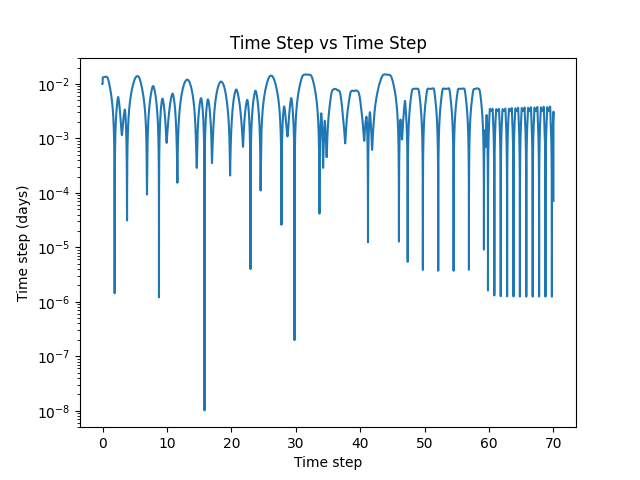
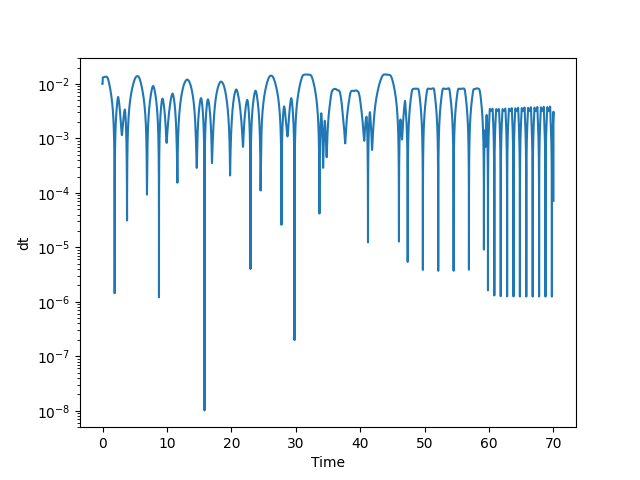
Update docs

Changed region(s): [[0.3438, 0.0625, 0.6562, 0.125], [0.0312, 0.375, 0.0625, 0.625], [0.4688, 0.9375, 0.5625, 1.0]]

diff --git a/5_steps_to_n_body_simulation/python/step5.py b/5_steps_to_n_body_simulation/python/step5.py
@@ -4,7 +4,7 @@ import timeit
 import numpy as np
 import matplotlib.pyplot as plt
 
-# Default units is AU, days, and M_sun
+# # Default units is AU, days, and M_sun
 # INITIAL_CONDITION = "solar_system"
 # TF = 200.0 * 365.24  # 200 years to days
 # TOLERANCE = 1e-8
@@ -299,7 +299,6 @@ def plot_rel_energy_error(rel_energy_error: np.ndarray, sol_t: np.ndarray) -> No
     plt.yscale("log")
     plt.xlabel("Time step")
     plt.ylabel("Relative Energy Error")
-    plt.title("Relative Energy Error vs Time Step")
     plt.show()
 
 
@@ -316,9 +315,8 @@ def plot_dt(sol_dt: np.ndarray, sol_t: np.ndarray) -> None:
     """
     plt.figure()
     plt.semilogy(sol_t, sol_dt)
-    plt.xlabel("Time step")
-    plt.ylabel("Time step (days)")
-    plt.title("Time Step vs Time Step")
+    plt.xlabel("Time")
+    plt.ylabel("dt")
     plt.show()
 
 

diff --git a/5_steps_to_n_body_simulation/conclusion.md b/5_steps_to_n_body_simulation/conclusion.md
@@ -21,6 +21,16 @@ but you can also come up with your own project.
     N-body simulation using Matplotlib in Python. Simply draw the
     frames, save them as images and then combine them into a video.
 
+- **Large-scale simulation**: So far, we have only focused on systems
+    with a few objects. What about large-scale systems with thousands
+    or millions of objects? Turns out it is not so easy because the 
+    computation of gravity scales as $\mathcal{O}(N^2)$. Have a look
+    at Barnes-Hut algorithm to see how to speed up the simulation.
+    In fact, we have documentations about it on this website as well.
+    Try to implement it in some low-level language like C or C++!
+
+    <img src="../../examples/media/galaxy_collision.png" alt="Galaxy Collision" width="400"/>
+
 - **Reproducing observations**: If you are not interested in
     writing low-level simulation code, you can still do some interesting projects
     using our `grav_sim` project written in C. One example is reproducing the

diff --git a/docs/documentations/barnes_hut.md b/docs/documentations/barnes_hut.md
@@ -1,5 +1,5 @@
 The classic Barnes-Hut algorithm[@barnes_hierarchical_1986]
-provides a way to approximate forces without losing accuracy at close range.
+provides a way to approximate forces in $\mathcal{O}(N \log N)$ without losing accuracy at close range.
 Because gravity decays at a quadratic rate, the accuracy of long range interactions
 are less important. Therefore, it is reasonable to approximate a far cluster of 
 particles as a single particle with mass \(m = m_{\textnormal{cluster}} \)
